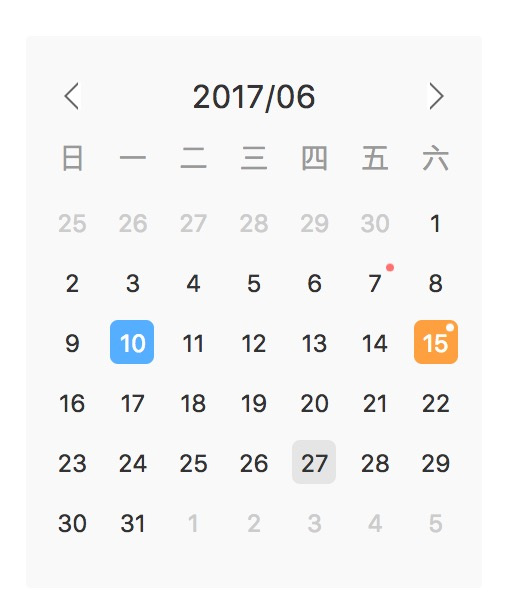
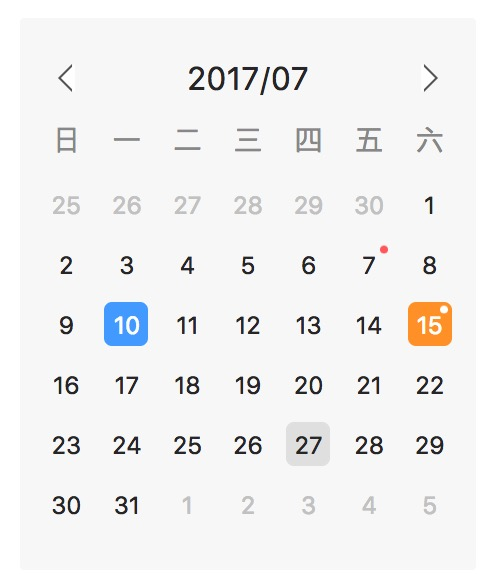
version 1.0.5

diff --git a/src/Calendar/Calendar.js b/src/Calendar/Calendar.js
@@ -236,6 +236,7 @@ class Calendar extends Component {
       weekWords = ["日", "一", "二", "三", "四", "五", "六"];
     }
 
+    selectMonth = selectMonth + 1;
     return (
       <div className="calendar">
         <div className="calendar-header">

diff --git a/README.md b/README.md
@@ -24,7 +24,7 @@ class Example extends React.Component {
   constructor (props) {
     super(props)
 
-    const tags = [9, 27];
+    const tags = [7, 15];
     const year = moment().year();
     const month = moment().month() + 1;
     const day = moment().date();
